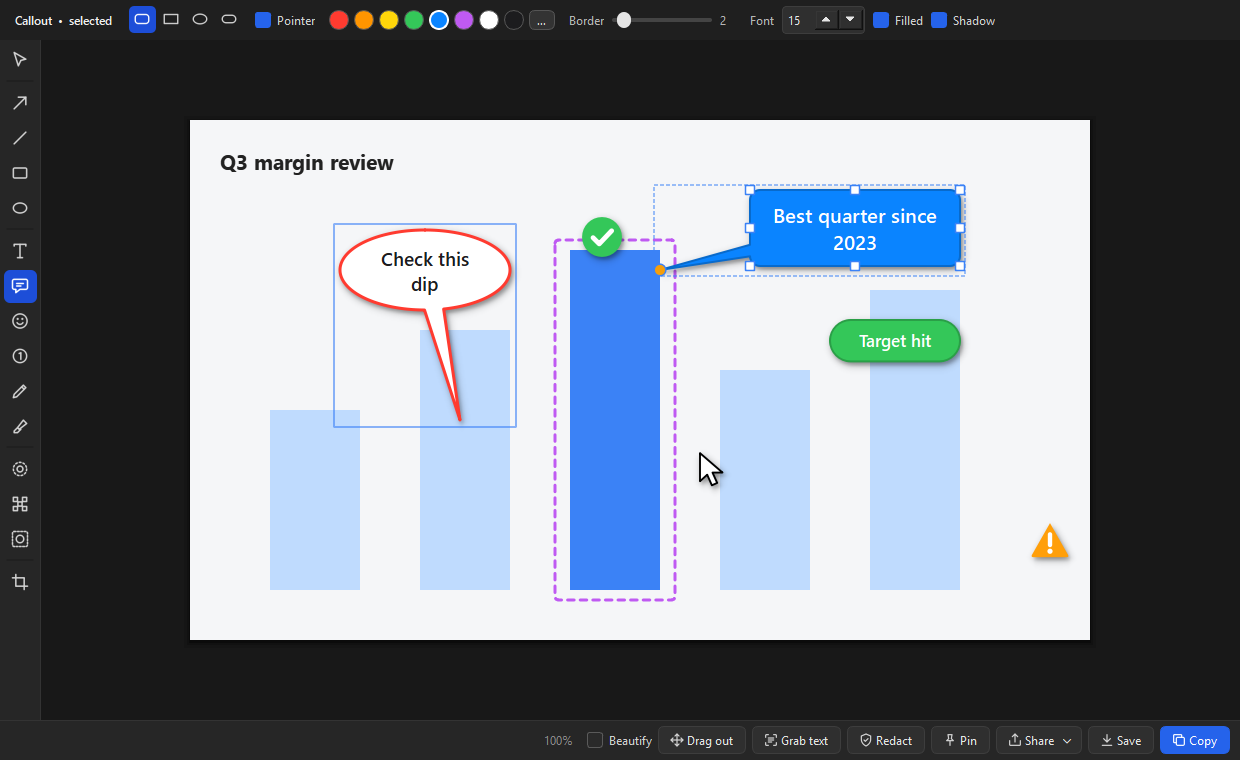
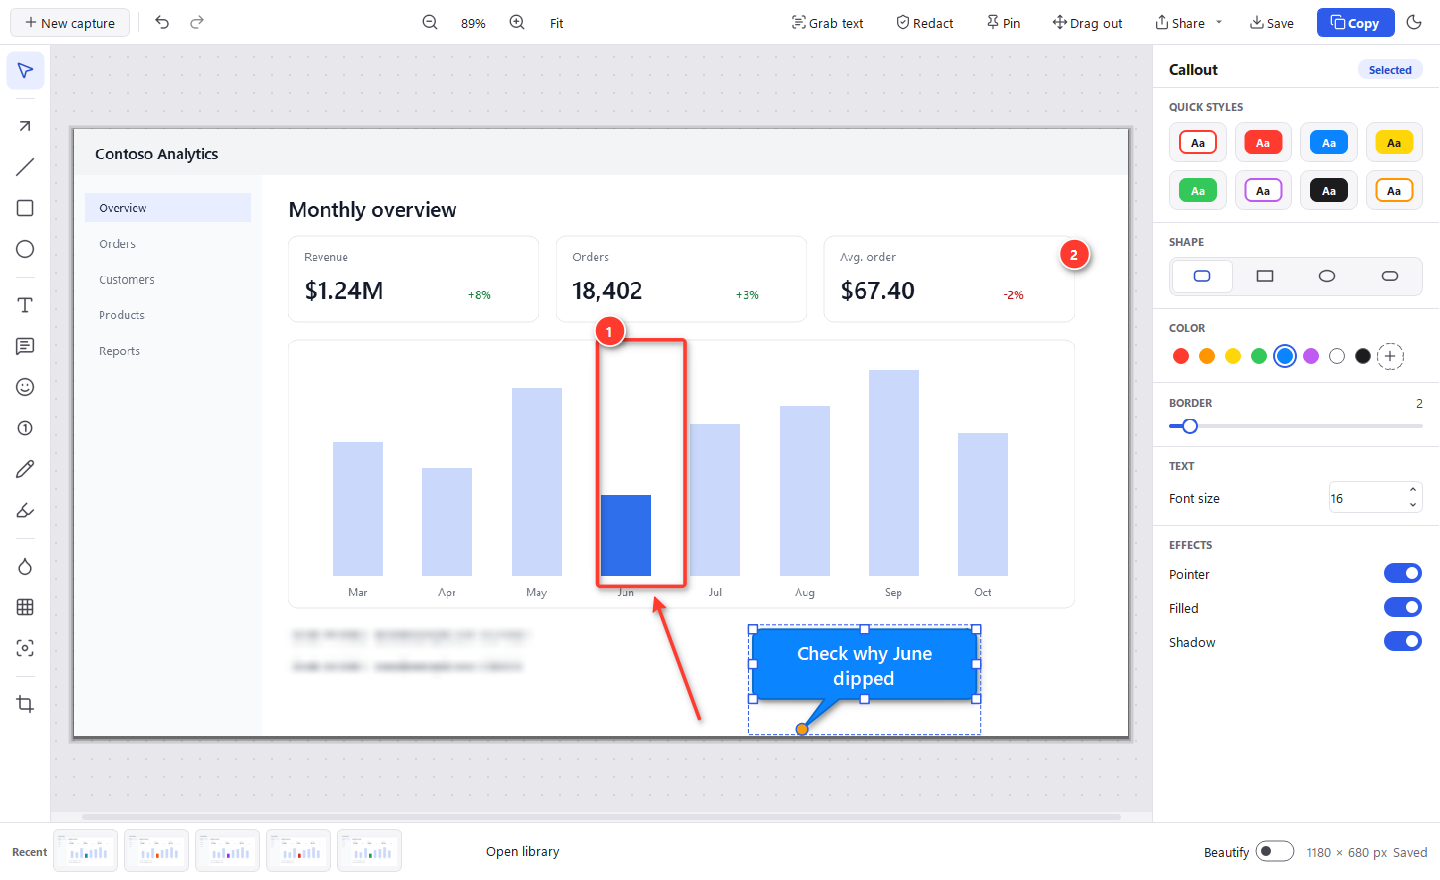
docs: screenshots of the new editor, Library and Settings in the README and download page
- README: the new editor as the main image, plus a Screenshots section (editor dark, Library,
  Settings > Updates, Settings > Appearance).
- Download page: the new editor screenshot.
- scripts/make_screenshots.py renders them from the real windows with sample content, throwaway
  settings and no organization branding, so they can be refreshed after every UI change.

diff --git a/docs/site/index.html b/docs/site/index.html
@@ -167,7 +167,7 @@
         <a href="https://github.com/nighthawk909/snipforge/releases">All downloads</a></p>
     </div>
     <figure class="shot">
-      <img src="editor-preview.png" width="1240" height="760" alt="The SnipForge editor with a screenshot marked up with an arrow, a callout and step numbers">
+      <img src="editor-preview.png" width="1440" height="880" alt="The SnipForge editor: a snip marked up with a box, an arrow, step numbers, a blur and a callout, with quick styles on the right">
     </figure>
   </div>
 

diff --git a/scripts/make_screenshots.py b/scripts/make_screenshots.py
@@ -1,0 +1,228 @@
+"""Render the screenshots in docs/screenshots from the real app windows, with sample content.
+
+    QT_QPA_PLATFORM=windows python scripts/make_screenshots.py
+
+Uses throwaway settings and a temporary library (never yours), draws its own sample "app" to mark
+up, and fakes the update engine's state for the Updates page. Run it after UI changes so the README
+and the download page show the app as it is.
+"""
+from __future__ import annotations
+
+import datetime as dt
+import os
+import sys
+import tempfile
+import time
+from pathlib import Path
+
+ROOT = Path(__file__).resolve().parents[1]
+OUT = ROOT / "docs" / "screenshots"
+SITE = ROOT / "docs" / "site"
+sys.path.insert(0, str(ROOT))
+
+from PySide6.QtCore import QPointF, QRectF, QSettings, Qt  # noqa: E402
+
+QSettings.setDefaultFormat(QSettings.IniFormat)
+QSettings.setPath(QSettings.IniFormat, QSettings.UserScope, tempfile.mkdtemp(prefix="snipforge-shots-"))
+from PySide6.QtGui import QColor, QFont, QImage, QPainter, QPen  # noqa: E402
+from PySide6.QtWidgets import QApplication  # noqa: E402
+
+WIDTH, HEIGHT = 1440, 880
+
+
+def pump(seconds: float = 0.6) -> None:
+    end = time.monotonic() + seconds
+    while time.monotonic() < end:
+        QApplication.processEvents()
+        time.sleep(0.01)
+
+
+def off_screen(window) -> None:
+    """Lay out and paint the window without putting it on screen, so the real mouse can't hover it."""
+    window.setAttribute(Qt.WA_DontShowOnScreen, True)
+    window.show()
+
+
+def sample_app(width: int = 1180, height: int = 680, accent: str = "#2F6FEB") -> QImage:
+    """A made-up dashboard to mark up (no real product or data)."""
+    img = QImage(width, height, QImage.Format_ARGB32)
+    img.fill(QColor("#FFFFFF"))
+    p = QPainter(img)
+    p.setRenderHint(QPainter.Antialiasing)
+    p.fillRect(0, 0, width, 52, QColor("#F3F4F6"))
+    p.fillRect(0, 52, 210, height - 52, QColor("#F9FAFB"))
+    p.setPen(QColor("#111827"))
+    p.setFont(QFont("Segoe UI", 13, QFont.DemiBold))
+    p.drawText(24, 34, "Contoso Analytics")
+    p.setFont(QFont("Segoe UI", 10))
+    for n, item in enumerate(("Overview", "Orders", "Customers", "Products", "Reports")):
+        if n == 0:
+            p.fillRect(12, 72 + n * 40, 186, 32, QColor("#E8EEFF"))
+        p.setPen(QColor("#1F2937" if n == 0 else "#6B7280"))
+        p.drawText(28, 93 + n * 40, item)
+    p.setPen(QColor("#111827"))
+    p.setFont(QFont("Segoe UI", 17, QFont.DemiBold))
+    p.drawText(240, 98, "Monthly overview")
+    tiles = (("Revenue", "$1.24M", "+8%"), ("Orders", "18,402", "+3%"), ("Avg. order", "$67.40", "-2%"))
+    for n, (label, value, delta) in enumerate(tiles):
+        x = 240 + n * 300
+        p.setPen(QPen(QColor("#E5E7EB"), 1))
+        p.setBrush(QColor("#FFFFFF"))
+        p.drawRoundedRect(QRectF(x, 120, 280, 96), 10, 10)
+        p.setPen(QColor("#6B7280"))
+        p.setFont(QFont("Segoe UI", 10))
+        p.drawText(x + 18, 148, label)
+        p.setPen(QColor("#111827"))
+        p.setFont(QFont("Segoe UI", 20, QFont.DemiBold))
+        p.drawText(x + 18, 190, value)
+        p.setPen(QColor("#15803D" if delta.startswith("+") else "#B91C1C"))
+        p.setFont(QFont("Segoe UI", 10, QFont.DemiBold))
+        p.drawText(x + 200, 190, delta)
+    p.setPen(QPen(QColor("#E5E7EB"), 1))
+    p.setBrush(Qt.NoBrush)
+    p.drawRoundedRect(QRectF(240, 236, 880, 300), 10, 10)
+    for n, h in enumerate((150, 120, 210, 90, 170, 190, 230, 160)):
+        p.fillRect(QRectF(290 + n * 100, 500 - h, 56, h), QColor(accent if n == 3 else "#C9D8FB"))
+    p.setPen(QColor("#6B7280"))
+    p.setFont(QFont("Segoe UI", 9))
+    for n, month in enumerate(("Mar", "Apr", "May", "Jun", "Jul", "Aug", "Sep", "Oct")):
+        p.drawText(QRectF(280 + n * 100, 508, 76, 20), Qt.AlignCenter, month)
+    p.setFont(QFont("Segoe UI", 10))
+    for n, row in enumerate(("Order #10482 · alex@example.com · $214.00", "Order #10481 · sam@example.com · $89.50")):
+        p.setPen(QColor("#374151"))
+        p.drawText(244, 572 + n * 34, row)
+    p.end()
+    return img
+
+
+def editor_shot(theme_manager, library, mode: str, name: str) -> None:
+    from snipforge.editor.window import EditorWindow
+
+    theme_manager.set_mode_preference(mode)
+    if len(library.entries()) < 6:  # a few earlier snips for the Recent strip
+        for accent in ("#16A34A", "#DC2626", "#9333EA", "#EA580C", "#0891B2"):
+            library.create(sample_app(accent=accent))
+    image = sample_app()
+    entry = library.create(image)
+    editor = EditorWindow(image, library, entry, on_new_snip=lambda: None, on_open_library=lambda: None)
+    editor.resize(WIDTH, HEIGHT)
+    off_screen(editor)
+    canvas = editor.canvas
+
+    def draw(tool: str, start: tuple[float, float], end: tuple[float, float]):
+        before = set(canvas.annotations())
+        canvas.set_tool(tool)
+        canvas._begin_create(QPointF(*start))
+        canvas._update_create(canvas._drag, QPointF(*end), False)
+        canvas._finish_create(canvas._drag)
+        canvas._drag = None
+        return next(a for a in canvas.annotations() if a not in before)
+
+    draw("blur", (236, 552), (640, 616))  # customer emails
+    draw("rect", (586, 236), (684, 512))  # around the dip
+    draw("arrow", (700, 660), (650, 524))
+    canvas.set_tool("step")
+    canvas._add_step(QPointF(600, 226))
+    canvas._add_step(QPointF(1120, 140))
+    callout = draw("callout", (760, 560), (1010, 630))
+    callout.text.setPlainText("Check why June dipped")
+    canvas.commit_text()
+    canvas.set_tool("select")
+    canvas._scene.clearSelection()
+    callout.setSelected(True)
+    pump(0.8)
+    canvas.fit_image()
+    pump(0.4)
+    editor.grab().save(str(OUT / name))
+    editor.close()
+
+
+def library_shot(theme_manager, mode: str) -> None:
+    from snipforge.home import HomeWindow
+    from snipforge.library import DOCUMENT, Library
+    from snipforge.winrects import WindowInfo
+
+    theme_manager.set_mode_preference(mode)
+    lib = Library(Path(tempfile.mkdtemp(prefix="snipforge-shots-lib-")))
+    colors = ("#2F6FEB", "#16A34A", "#DC2626", "#9333EA", "#EA580C", "#0891B2", "#CA8A04", "#4F46E5")
+    titles = (("Monthly overview - Contoso Analytics", "Edge", True, ["q3-review"]),
+              ("Invoice approvals - Outlook", "Outlook", False, ["finance"]),
+              ("Sprint board - Planner", "Edge", False, []),
+              ("Pricing.xlsx - Excel", "Excel", True, ["q3-review"]),
+              ("Team standup - Teams", "Teams", False, []),
+              ("Onboarding checklist.docx - Word", "Word", False, ["onboarding"]),
+              ("Error dialog", "Windows", False, ["bugs"]),
+              ("Roadmap deck.pptx - PowerPoint", "PowerPoint", False, ["q3-review"]))
+    now = dt.datetime.now()
+    for n, (title, app, favorite, tags) in enumerate(titles):
+        entry = lib.create(sample_app(accent=colors[n]), source=WindowInfo(None, title, app))
+        when = now - dt.timedelta(days=(0 if n < 4 else 1 if n < 7 else 3), minutes=n * 7)
+        moved = entry.path.with_name(when.strftime("%Y%m%d-%H%M%S-%f")[:19] + f"-{n}")
+        os.replace(entry.path, moved)
+        entry = lib.get(moved.name)
+        lib.update_meta(entry, favorite=favorite, tags=tags, indexed=True, text="sample")
+        if favorite:
+            (entry.path / DOCUMENT).write_text("{}", encoding="utf-8")
+    home = HomeWindow(lib, lambda: None, lambda _i: None, on_settings=lambda: None)
+    home.resize(WIDTH, HEIGHT)
+    off_screen(home)
+    pump(1.5)  # thumbnails load in the background
+    home.grab().save(str(OUT / f"library-{mode}.png"))
+    home.close()
+
+
+def settings_shots(theme_manager) -> None:
+    from snipforge.settings_window import SettingsWindow
+    from snipforge.update_controller import UpdateState
+    from tests.test_settings_window import FakeController, release
+
+    controller = FakeController()
+    window = SettingsWindow(theme_manager=theme_manager, update_controller=controller,
+                            library_root=Path.home() / "Pictures" / "SnipForge" / "Library")
+    window.resize(WIDTH, 1040)
+    window.updates_page._current = "0.7.0"
+    controller.releases = [release("0.8.0", notes="Settings window and update controls", days=7),
+                           release("0.7.0", notes="New look, Library search and the update engine", days=3),
+                           release("0.6.0", notes="One-click download and company update feeds")]
+    controller.releases_changed.emit(controller.releases)
+    controller.state = UpdateState(kind="ready", release=controller.releases[0], last_checked=dt.datetime.now(),
+                                   message="You have 0.7.0. It's downloaded and matches its published checksum.")
+    controller.state_changed.emit(controller.state)
+    off_screen(window)
+    for mode, section in (("light", "updates"), ("dark", "appearance")):
+        theme_manager.set_mode_preference(mode)
+        window.show_section(section)
+        pump(0.6)
+        shot = window.grab()
+        if section == "appearance":  # a short page: leave out the empty space below it
+            shot = shot.copy(0, 0, shot.width(), 400)
+        shot.save(str(OUT / f"settings-{section}.png"))
+    window.close()
+
+
+def main() -> int:
+    OUT.mkdir(parents=True, exist_ok=True)
+    app = QApplication(sys.argv)
+    from snipforge import theme
+    from snipforge.theme import manager as manager_module
+
+    manager_module.pack_folders = lambda: []  # built-in look only: no organization branding in public docs
+    themes = theme.install(app)
+    themes.set_accent("snipforge")
+    from snipforge.library import Library
+
+    library = Library(Path(tempfile.mkdtemp(prefix="snipforge-shots-ed-")))
+    editor_shot(themes, library, "light", "editor-light.png")
+    editor_shot(themes, library, "dark", "editor-dark.png")
+    library_shot(themes, "light")
+    settings_shots(themes)
+    hero = QImage(str(OUT / "editor-light.png"))
+    hero.save(str(SITE / "editor-preview.png"))
+    print("Wrote", ", ".join(sorted(p.name for p in OUT.glob("*.png"))), f"and {SITE / 'editor-preview.png'}")
+    print(f"Download page image is {hero.width()}x{hero.height()}: update the <img> width/height if it changed.")
+    return 0
+
+
+if __name__ == "__main__":
+    raise SystemExit(main())
+

diff --git a/README.md b/README.md
@@ -4,7 +4,7 @@ Free, open-source screenshot and markup tool for Windows: a lightweight alternat
 Press **Win+Shift+S** (or Print Screen), drag over anything, and the snip opens straight in an
 editor with arrows, callouts, stamps, blur and more.
 
-![SnipForge editor](docs/editor-preview.png)
+![The SnipForge editor: a snip marked up with a box, an arrow, step numbers, a blur and a callout](docs/screenshots/editor-light.png)
 
 ## Install
 
@@ -68,6 +68,17 @@ location ([docs/IT-REVIEW.md](docs/IT-REVIEW.md)).
 
 **Extras.** Grab text (OCR, offline) · Redact (finds emails and phone/card numbers and blurs them) ·
 Pin a snip on top of other windows · Beautify (backdrop, rounded corners, shadow).
+
+## Screenshots
+
+| | |
+|---|---|
+| ![Editor in dark mode](docs/screenshots/editor-dark.png) | ![Library with search, favorites and tags](docs/screenshots/library-light.png) |
+| **Editor, dark.** Tools on the left, quick styles and properties on the right, recent snips along the bottom. | **Library.** Every snip by day, searchable by the words inside it, with favorites, tags and app filters. |
+| ![Settings, Updates page](docs/screenshots/settings-updates.png) | ![Settings, Appearance page](docs/screenshots/settings-appearance.png) |
+| **Settings > Updates.** Choose how updates install, the release channel, any version (or go back to one), and stay on the version you choose. | **Settings > Appearance.** Match Windows, light or dark, and the accent color. |
+
+Screenshots are rendered from the app with sample content: `QT_QPA_PLATFORM=windows python scripts/make_screenshots.py`.
 
 ## Privacy
 
